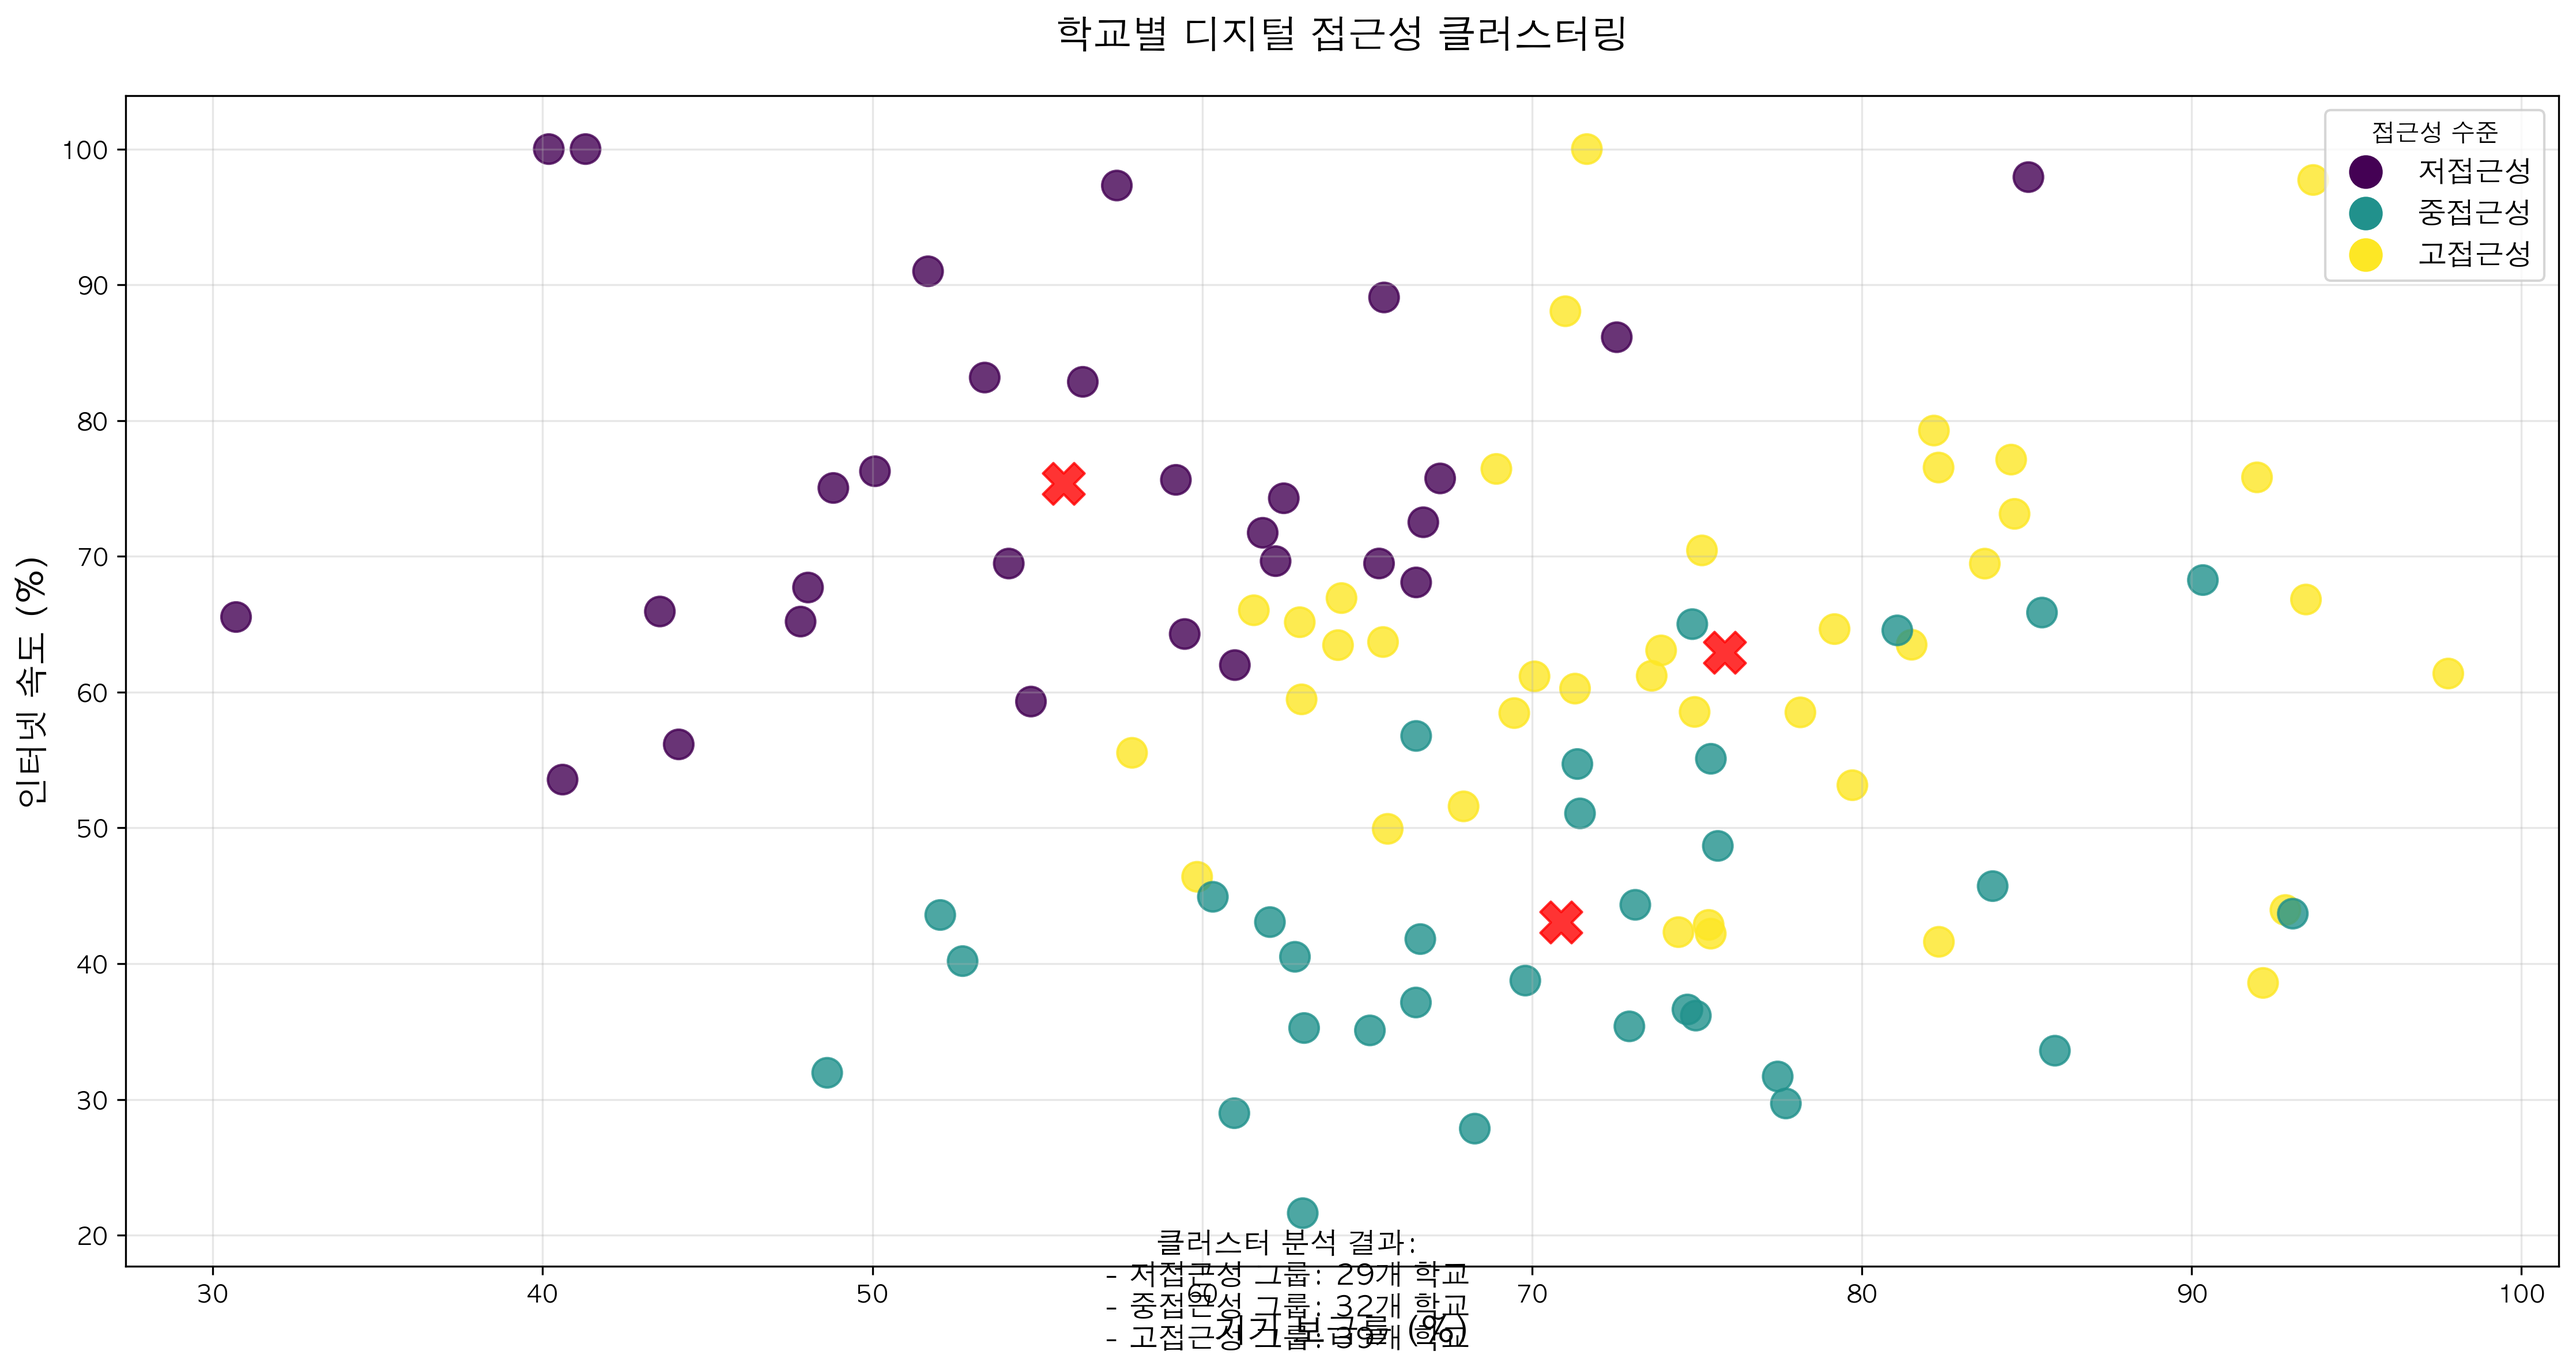
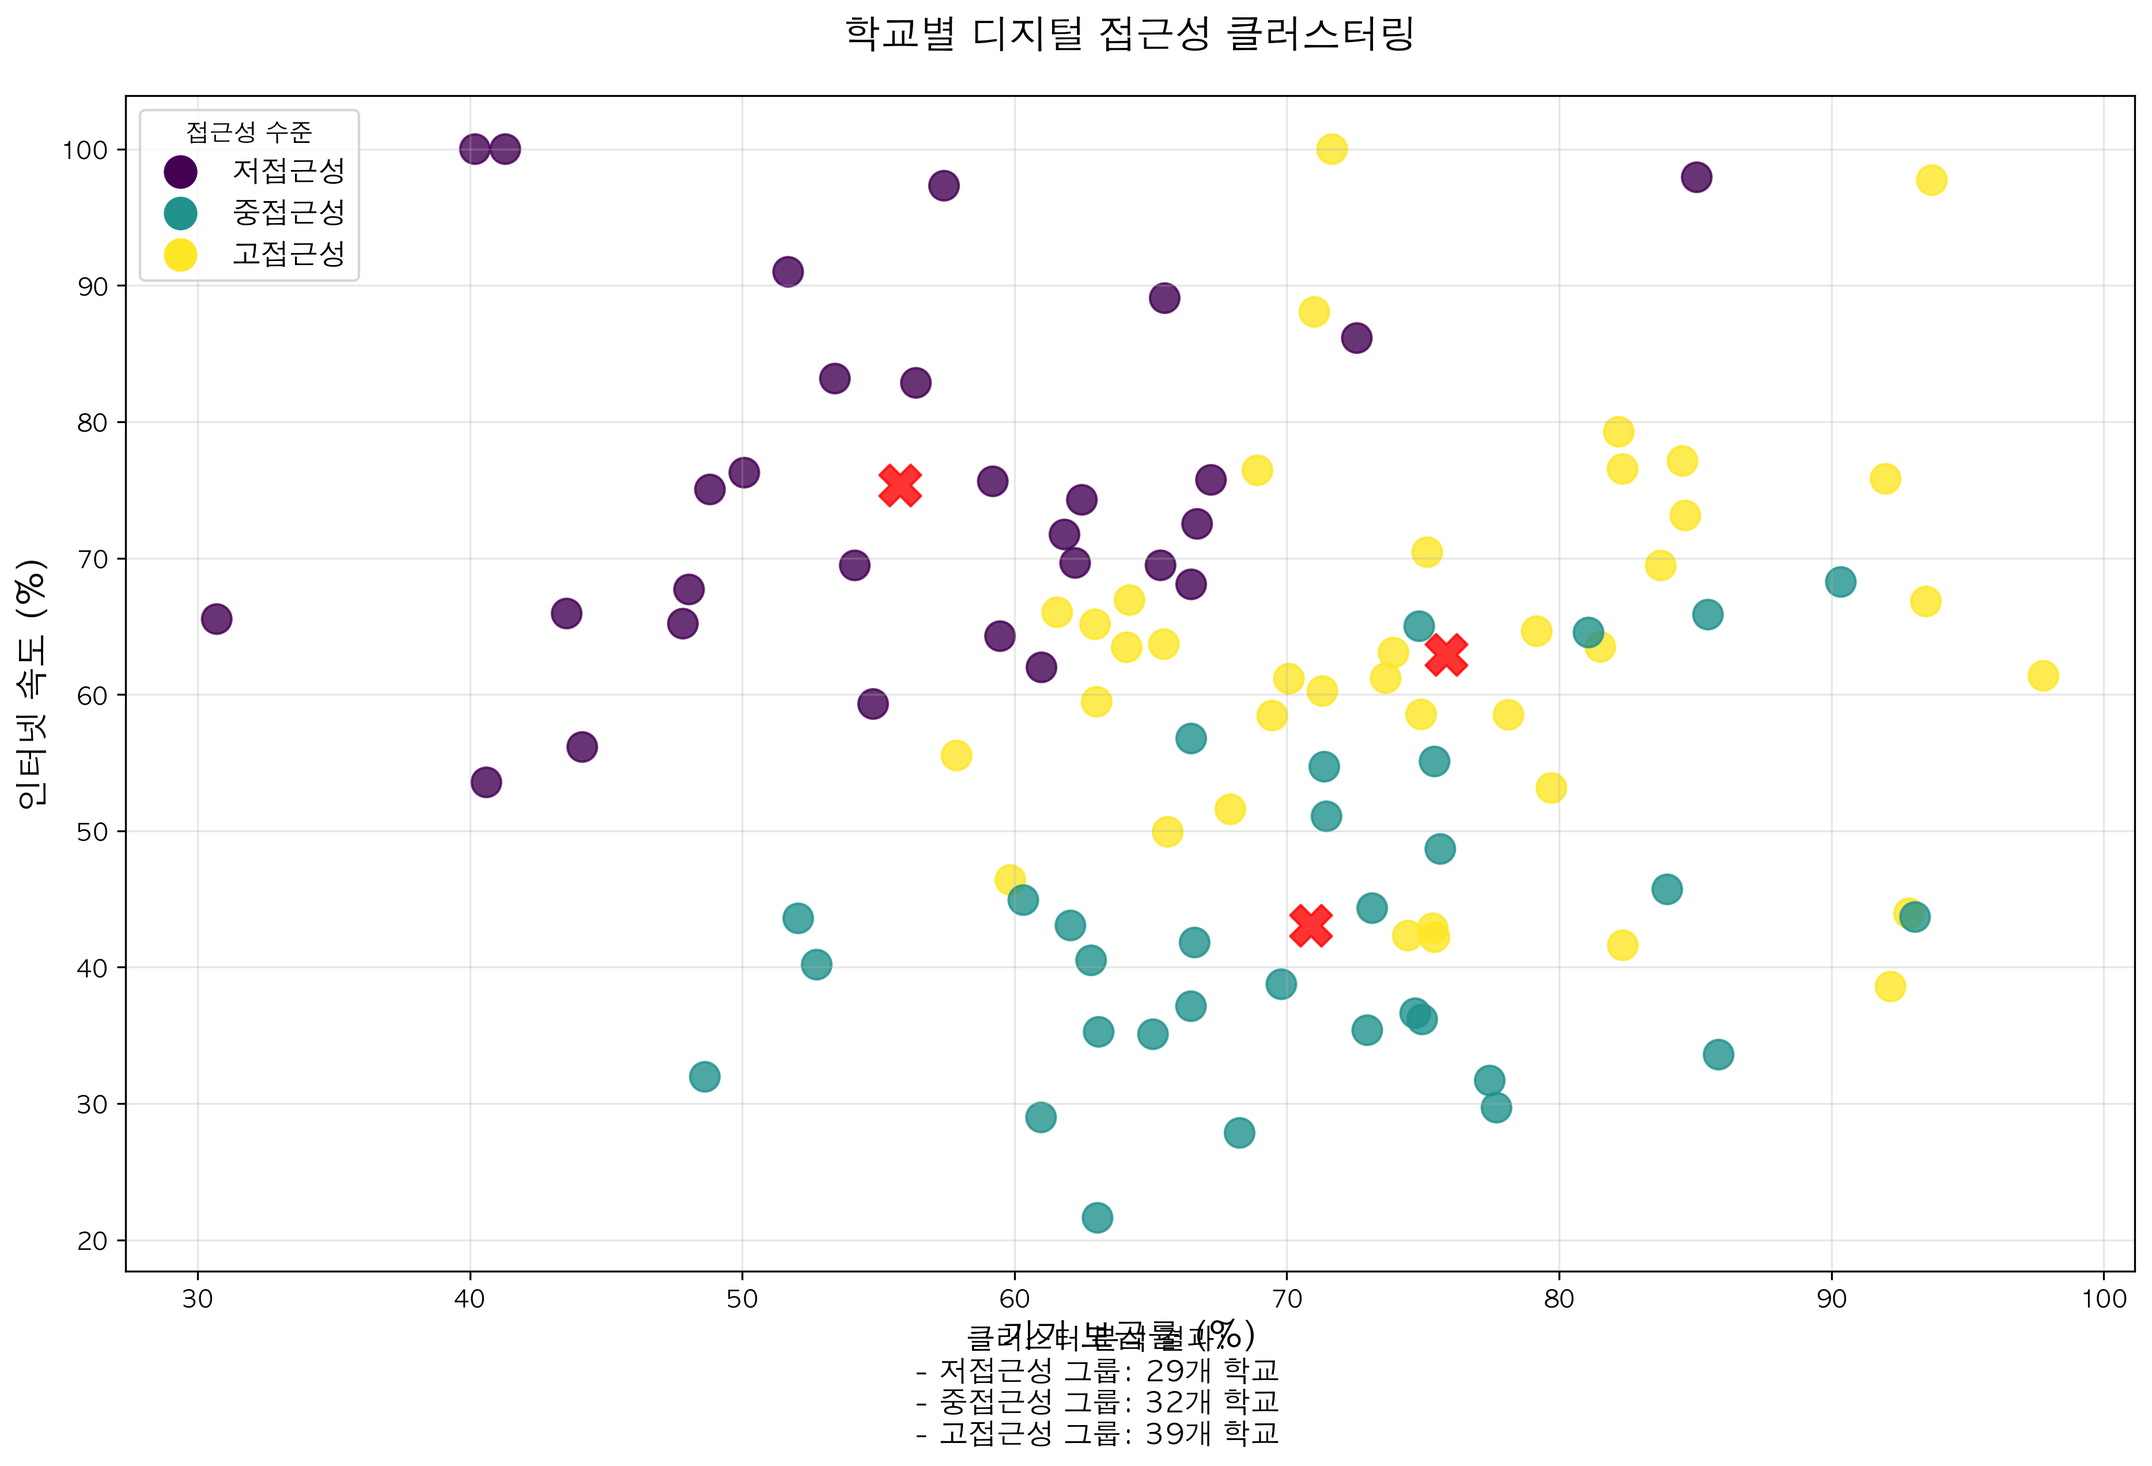
policy draft done

diff --git a/templates/index.html b/templates/index.html
@@ -304,63 +304,43 @@
                 <div class="container mt-4">
                     <h2 class="text-center mb-4">정책 효과 분석</h2>
                     
-                    <!-- Button Group for Policy Analysis -->
+                    <!-- 정책 효과 설명 -->
                     <div class="row mb-4">
                         <div class="col-md-12">
-                            <div class="btn-group" role="group">
-                                <button type="button" class="btn btn-primary active" data-visualization="policy">정책 효과</button>
-                                <button type="button" class="btn btn-outline-primary" data-visualization="impact">영향 분석</button>
+                            <div class="card">
+                                <div class="card-body">
+                                    <h5 class="card-title">다층 선형 회귀 모델 (HLM) 분석</h5>
+                                    <p class="card-text">
+                                        저접근성 학교에 태블릿, 컴퓨터, 고속 인터넷을 보급한 정책의 효과를 분석했습니다. 
+                                        지역별 HDI(Human Development Index)와 디지털 접근성 지수의 상호작용을 고려한 
+                                        다층 선형 회귀 모델(HLM, Hierarchical Linear Model)을 사용하여 최적 배분을 도출했습니다.
+                                    </p>
+                                    <p class="card-text">
+                                        <strong>모델 수식:</strong><br>
+                                        \[Y_{ij} = \beta_0 + \beta_1 \cdot \text{DigitalAccess}_{ij} + \beta_2 \cdot \text{HDI}_j + 
+                                        \beta_3 \cdot (\text{DigitalAccess}_{ij} \times \text{HDI}_j) + u_j + \epsilon_{ij}\]
+                                        여기서 \(Y_{ij}\)는 학교 i의 수학 성취도, j는 지역을 나타냅니다.
+                                    </p>
+                                </div>
                             </div>
                         </div>
                     </div>
                     
-                    <!-- Policy Visualization -->
+                    <!-- 시각화 -->
                     <div class="row">
                         <div class="col-md-12">
                             <div class="card">
                                 <div class="card-body">
-                                    <h5 class="card-title">정책 효과 분석</h5>
+                                    <h5 class="card-title">지역별 HDI와 디지털 접근성의 상호작용 효과</h5>
                                     <img src="{{ url_for('static', filename='data/policy/policy_impact.png') }}" 
-                                         alt="정책 효과 분석" class="img-fluid mb-4">
-                                    
-                                    <!-- 정책 제안 1 -->
-                                    <div class="policy-section mb-4">
-                                        <h4 class="mb-3">1. 지역별 디지털 인프라 균등화 지원 정책</h4>
-                                        <div class="card">
-                                            <div class="card-body">
-                                                <h5 class="card-title">정책 내용</h5>
-                                                <p class="card-text">
-                                                    경제 발전 수준(HDI, GDP)이 낮은 지역의 학교를 대상으로 디지털 기기(태블릿, 컴퓨터)와 고속 인터넷 인프라를 우선적으로 보급한다. 
-                                                    공공데이터포털과 학교알리미 데이터를 활용해 디지털 인프라가 부족한 학교를 자동 식별하고, 정부 예산을 통해 맞춤형 지원을 제공한다. 
-                                                    또한, OpenAI 기반 대시보드를 통해 지원 후 디지털 접근성과 수학 성취도 변화를 실시간 모니터링한다.
-                                                </p>
-                                                <h5 class="card-title mt-3">기대 효과</h5>
-                                                <p class="card-text">
-                                                    디지털 자원 접근성 불균형을 줄이고, PISA/TIMSS 데이터에서 확인된 디지털 접근성과 수학 성취도 간 상관관계를 강화해 교육 형평성을 제고한다. 
-                                                    특히 경제적으로 취약한 지역 학생들의 학업 성취도 향상에 기여한다.
-                                                </p>
-                                            </div>
-                                        </div>
-                                    </div>
-
-                                    <!-- 정책 제안 2 -->
-                                    <div class="policy-section">
-                                        <h4 class="mb-3">2. AI 기반 맞춤형 디지털 학습 소프트웨어 보급 및 교사 연수 정책</h4>
-                                        <div class="card">
-                                            <div class="card-body">
-                                                <h5 class="card-title">정책 내용</h5>
-                                                <p class="card-text">
-                                                    분석 결과 수학 성취도에 가장 큰 영향을 미치는 디지털 자원(예: AI 디지털 교과서, 적응형 학습 소프트웨어)을 초·중·고교에 단계적으로 보급한다. 
-                                                    Cursor를 활용한 자연어 명령으로 소프트웨어 효과를 분석하고, 최적의 학습 콘텐츠를 추천한다. 
-                                                    동시에 교사 대상 디지털 리터러시 및 소프트웨어 활용 연수를 강화해 디지털 자원의 효과적 사용을 촉진한다.
-                                                </p>
-                                                <h5 class="card-title mt-3">기대 효과</h5>
-                                                <p class="card-text">
-                                                    학생의 자기주도적 학습을 촉진하고, 데이터 기반으로 식별된 효과적인 디지털 자원을 통해 수학 성취도를 높인다. 
-                                                    교사 역량 강화는 디지털 교육의 지속 가능성을 확보한다.
-                                                </p>
-                                            </div>
-                                        </div>
+                                         alt="정책 효과 분석" class="img-fluid">
+                                    <div class="mt-3">
+                                        <h6>분석 결과 해석</h6>
+                                        <ul>
+                                            <li>디지털 접근성이 높을수록 학업 성취도가 향상됨 (β₁ > 0)</li>
+                                            <li>지역의 HDI가 높을수록 기본 성취도가 높음 (β₂ > 0)</li>
+                                            <li>HDI가 높은 지역일수록 디지털 접근성 향상의 효과가 더 큼 (β₃ > 0)</li>
+                                        </ul>
                                     </div>
                                 </div>
                             </div>

diff --git a/src/policy_analysis.py b/src/policy_analysis.py
@@ -1,0 +1,116 @@
+import pandas as pd
+import numpy as np
+import matplotlib.pyplot as plt
+import seaborn as sns
+from scipy import stats
+import os
+
+# 한글 폰트 설정
+plt.rcParams['font.family'] = 'AppleGothic'
+plt.rcParams['axes.unicode_minus'] = False
+
+def create_policy_analysis():
+    # 디렉토리 생성
+    os.makedirs('static/data/policy', exist_ok=True)
+    
+    # 가상의 데이터 생성
+    np.random.seed(42)
+    n_schools = 100
+    n_regions = 5
+    
+    # 지역별 HDI (Human Development Index) 생성
+    region_hdi = np.random.normal(0.7, 0.1, n_regions).clip(0.5, 0.9)
+    
+    # 학교별 데이터 생성
+    data = []
+    for region_id in range(n_regions):
+        n_schools_region = n_schools // n_regions
+        
+        # 디지털 접근성 점수 (0-100)
+        digital_access = np.random.normal(60 + region_hdi[region_id] * 20, 10, n_schools_region).clip(0, 100)
+        
+        # HDI에 따른 기본 성취도
+        base_achievement = 50 + region_hdi[region_id] * 30
+        
+        # 디지털 접근성과 HDI의 상호작용을 고려한 성취도 계산
+        for school_id in range(n_schools_region):
+            achievement = (base_achievement + 
+                         0.2 * digital_access[school_id] +  # β1 효과
+                         10 * region_hdi[region_id] +       # β2 효과
+                         0.1 * digital_access[school_id] * region_hdi[region_id] +  # β3 상호작용 효과
+                         np.random.normal(0, 5))  # 오차항
+            
+            data.append({
+                'region_id': region_id,
+                'school_id': school_id,
+                'digital_access': digital_access[school_id],
+                'hdi': region_hdi[region_id],
+                'achievement': achievement
+            })
+    
+    df = pd.DataFrame(data)
+    
+    # HLM 모델 시각화
+    plt.figure(figsize=(12, 8))
+    
+    # 지역별로 다른 색상 사용
+    colors = plt.cm.viridis(np.linspace(0, 1, n_regions))
+    
+    # 산점도와 회귀선
+    for region_id in range(n_regions):
+        region_data = df[df['region_id'] == region_id]
+        
+        # 산점도
+        plt.scatter(region_data['digital_access'], region_data['achievement'],
+                   c=[colors[region_id]], alpha=0.6, label=f'지역 {region_id+1}')
+        
+        # 회귀선
+        z = np.polyfit(region_data['digital_access'], region_data['achievement'], 1)
+        p = np.poly1d(z)
+        x = np.linspace(region_data['digital_access'].min(), region_data['digital_access'].max(), 100)
+        plt.plot(x, p(x), c=colors[region_id], alpha=0.8)
+    
+    plt.title('디지털 접근성과 학업 성취도의 관계: 지역별 HDI 효과', fontsize=14, pad=20)
+    plt.xlabel('디지털 접근성 지수', fontsize=12)
+    plt.ylabel('학업 성취도', fontsize=12)
+    
+    # 수식 추가
+    equation = r"$Y_{ij} = \beta_0 + \beta_1 \cdot \mathrm{DigitalAccess}_{ij} + \beta_2 \cdot \mathrm{HDI}_j + " + \
+              r"\beta_3 \cdot (\mathrm{DigitalAccess}_{ij} \times \mathrm{HDI}_j) + u_j + \epsilon_{ij}$"
+    plt.figtext(0.5, 0.02, equation, ha='center', fontsize=12)
+    
+    # 범례 및 여백 조정
+    plt.legend(title='지역 구분', bbox_to_anchor=(1.05, 1), loc='upper left')
+    plt.subplots_adjust(right=0.85, bottom=0.15)
+    
+    # 격자 추가
+    plt.grid(True, alpha=0.3)
+    
+    # 그래프 저장
+    plt.savefig('static/data/policy/policy_impact.png', dpi=300, bbox_inches='tight')
+    plt.close()
+    
+    # 분석 결과
+    results = {
+        'model_summary': {
+            'total_schools': len(df),
+            'regions': n_regions,
+            'avg_achievement': df['achievement'].mean(),
+            'avg_digital_access': df['digital_access'].mean(),
+            'correlation': df['digital_access'].corr(df['achievement'])
+        },
+        'regional_effects': {
+            f'region_{i+1}': {
+                'hdi': region_hdi[i],
+                'avg_achievement': df[df['region_id'] == i]['achievement'].mean(),
+                'digital_effect': np.polyfit(
+                    df[df['region_id'] == i]['digital_access'],
+                    df[df['region_id'] == i]['achievement'],
+                    1
+                )[0]
+            }
+            for i in range(n_regions)
+        }
+    }
+    
+    return results 

diff --git a/src/correlation_analysis.py b/src/correlation_analysis.py
@@ -54,7 +54,7 @@ def create_digital_accessibility_analysis():
     df['cluster_label'] = df['cluster'].map(cluster_labels)
     
     # 시각화 생성
-    plt.figure(figsize=(15, 8))
+    plt.figure(figsize=(15, 10))  # 세로 크기를 8에서 10으로 증가
     
     # 산점도 생성
     scatter = plt.scatter(df['device_coverage'], df['internet_speed'],
@@ -77,6 +77,9 @@ def create_digital_accessibility_analysis():
     ]
     plt.legend(handles=legend_elements, title='접근성 수준', fontsize=12)
     
+    # 여백 조정
+    plt.subplots_adjust(bottom=0.2)  # 아래쪽 여백을 20%로 설정
+    
     # 분석 결과 텍스트 추가
     analysis_text = (
         f"클러스터 분석 결과:\n"
@@ -84,10 +87,9 @@ def create_digital_accessibility_analysis():
         f"- 중접근성 그룹: {len(df[df['cluster'] == 1])}개 학교\n"
         f"- 고접근성 그룹: {len(df[df['cluster'] == 2])}개 학교"
     )
-    plt.figtext(0.5, 0.02, analysis_text, ha='center', fontsize=12, style='italic')
+    plt.figtext(0.5, 0.1, analysis_text, ha='center', fontsize=12, style='italic')  # y 위치를 0.1로 조정
     
     # 그래프 저장
-    plt.tight_layout()
     plt.savefig('static/data/correlation/digital_accessibility_clusters.png', dpi=300, bbox_inches='tight')
     plt.close()
     

diff --git a/app.py b/app.py
@@ -9,6 +9,7 @@ import pandas as pd
 from src.claude_api import ClaudeAPI
 from src.overview_analysis import create_overview_visualizations
 from src.correlation_analysis import create_correlation_visualizations, create_digital_accessibility_analysis
+from src.policy_analysis import create_policy_analysis
 
 # Force reload environment variables
 load_dotenv(override=True)
@@ -28,7 +29,8 @@ def index():
     # 데이터 시각화 생성
     create_overview_visualizations()
     create_correlation_visualizations()
-    create_digital_accessibility_analysis()  # 디지털 접근성 분석 추가
+    create_digital_accessibility_analysis()
+    create_policy_analysis()  # 정책 분석 추가
     
     return render_template('index.html')
 
